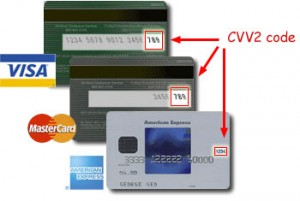
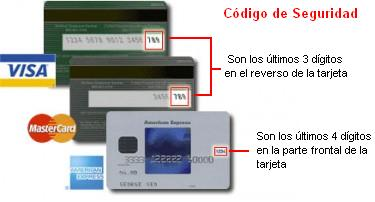
Revision detalles flatantes v1

diff --git a/application/views/direccion_envio/listar.html b/application/views/direccion_envio/listar.html
@@ -18,14 +18,10 @@
 	<form id="form_direccion_envio" action="<?php echo site_url('direccion_envio/seleccionar'); ?>" method="POST">
 		<table cellspacing="0" cellpadding="0" width="100%">
 			<thead>
-				<tr>
-					<th colspan="2">
-						Calle y n&uacute;mero
-					</th>									
-					<th>Colonia</th>
-					<th>CP</th>
-					<th>Ciudad y Esado</th>
-					<th>&nbsp;</th>
+				<tr>					
+					<th colspan="3">
+						Tus direcciones
+					</th>														
 					<th width='135px'>&nbsp;</th>
 				</tr>
 			</thead>
@@ -51,22 +47,16 @@
 				<td>				
 					<input type="radio" id="radio<?php echo $direccion['id_consecutivoSi']; ?>" name="direccion_selecionada" <?php echo $check." ".$value_r;?>/>
 					<div id="div<?php echo $direccion['id_consecutivoSi']; ?>" <?php echo $classsi;?> onclick="cambia_boton(<?php echo $direccion['id_consecutivoSi']; ?>)">&nbsp;					
-					</div>															
+					</div>																			
 				</td>
-				<td class="item-lista borde-derecho">
-					<?php echo $direccion['calle'].', '.$direccion['num_ext']; ?>
+				<td class="item-lista borde-derecho">	
+					<?php echo $direccion['calle'].', '.$direccion['num_ext']; ?><br />								
+					<?php echo $direccion['colonia']; ?><br />				
+					<?php echo $direccion['cp']; ?><br />				
+					<?php echo $direccion['ciudad'].', '.$direccion['estado'] ; ?><br />
 					<?php echo $class;?>
 				</td>
-				<td class="item-lista borde-derecho">
-					<?php echo $direccion['colonia']; ?>
-				</td>
-				<td class="item-lista borde-derecho">
-					<?php echo $direccion['cp']; ?>
-				</td>
-				<td class="item-lista borde-derecho">
-					<?php echo $direccion['ciudad'].', '.$direccion['estado'] ; ?>
-				</td>
-				<td class="item-lista borde-derecho">
+				<td class="item-lista borde-derecho" align="center">
 					<a href="<?php echo site_url("direccion_envio/editar/".$direccion['id_consecutivoSi']); ?>" title="editar">editar</a>&nbsp;
 					<a href="<?php echo site_url("direccion_envio/eliminar/".$direccion['id_consecutivoSi']); ?>" title="eliminar">eliminar</a>
 				</td>
@@ -89,19 +79,19 @@
 			?>
 	
 		<?php if (!$hay_direcciones): ?>
-			<tr><td colspan="7"><h4>No tiene direcciones registradas</h4></td></tr>						
+			<tr><td colspan="4"><h4>No tiene direcciones registradas</h4></td></tr>						
 		<?php endif ?>		
 		</tbody>	
 			<tfoot class="contenedor-gris">
 				<tr>
-					<td colspan="7" >
+					<td colspan="4" >
 						<div class='validation_message'>
 							<?php if(isset($mensaje)) { echo $mensaje; } ?>
 						</div>
 					</td>
 				</tr>
 				<tr>
-					<td colspan="7" class="borde-top">
+					<td colspan="4" class="borde-top">
 						<div id="div_enlace">
 							<a class="agregar_direccion" href="<?php echo site_url('direccion_envio/registrar/'); ?>">
 								<div class="agregar">&nbsp;</div>

diff --git a/application/views/orden_compra/detalle_tarjeta.html b/application/views/orden_compra/detalle_tarjeta.html
@@ -3,20 +3,17 @@
 		echo $tc->descripcionVc. " con terminación " .substr($tc->terminacion_tarjetaVc, strlen($tc->terminacion_tarjetaVc) - 4);			
 	?>
 	<span><a href="<?php echo site_url('forma_pago');?>">Cambiar</a></span>	
-	<div id="tarjeta" >C&oacute;digo de seguridad:	
+	<div id="tarjeta" class="float_izq">C&oacute;digo de seguridad:
 		<input type="text" name="txt_codigo" id="txt_codigo" maxlength="5" size="5"
 				value="<?php if(isset($_POST['txt_codigo'])) echo htmlspecialchars($_POST['txt_codigo']);?>"/>
-		<span class="validation_message"><?php if(isset($reg_errores['txt_codigo'])) echo ($reg_errores['txt_codigo']);?></span>
-		<a href="#" class="tip_trigger">?
+	</div>	
+	<div class="float_izq">							
+		<a href="#" class="tip_trigger">
+			<div class="interrogacion" style="margin-top: 6px"></div>			
 			<span class="tip">
-				El código de seguridad es requerido para realizar un cargo, se encuentra <br />
-				en su tarjeta de crédito pero no se almacena en nuestro sistema, 
-				por lo que <br />la única manera de saberlo es teniendo la posesión física de la tarjeta.<br />
-				En una tarjeta Visa o Master Card, el código de seguridad se encuentra<br /> en la franja donde firmó su tarjeta y consta de 3 dígitos.<br />
-				En una tarjeta American Express, el código de seguridad se encuentra <br />arriba del final del número de tarjeta y consta de 4 dígitos.<br />
-				La siguiente imágen muestra los códigos de seguridad:<br />
 				<div style="margin-left: auto; margin-right: auto; text-align: center"><img src="<?php echo base_url();?>images/cvv2_code.jpg" /></div>
-			</span>
+			</span>			
 		</a>
-	</div>			
+		<span class="validation_message"><?php if(isset($reg_errores['txt_codigo'])) echo ($reg_errores['txt_codigo']);?></span>
+	</div>
 </div>

diff --git a/application/views/direccion_facturacion/editar.html b/application/views/direccion_facturacion/editar.html
@@ -122,6 +122,15 @@
 					<div id="divchk_default" class="checkbox_no_selected" onclick="cambia_check('chk_default')">&nbsp;					
 					</div>	
 					Usar como direcci&oacute;n de facturaci&oacute;n para pago express
+					<a href="#" class="tip_trigger">?
+						<span class="tip">
+							Pago express te permite hacer tus compras de forma más rápida.<br />
+							Si seleccionas “usar tus datos para pago express”, éstos serán almacenados <br />
+							en tu cuenta como datos predeterminados de pago, envío o facturación.<br />
+							La próxima vez que hagas una compra, automáticamente asignaremos a tu orden esos datos,<br />
+							y podrás finalizar tu pago en un solo paso, (omitiendo los otros dos pasos del proceso de pago)
+						</span>
+					</a>
 					<?php 
 						if(isset($_POST['chk_default'])) { 							
 							echo "<script>cambia_check('chk_default')</script>"; 
@@ -145,9 +154,9 @@
 				<td>
 					<input type="submit" id="guardar_direccion" value=" " class="usar_nueva_direccion"/>									
 					ó
-					<input type="submit" id="guardar_otra_rs" value=" " class="usar_otra_large"/> 										
+					<input type="button" onclick="<?php echo site_url('direccion_facturacion/registrar_direccion'); ?>" id="guardar_otra_rs" value=" " class="usar_otra_large"/> 										
 					<div class="instrucciones_cursivas_der">
-						<a href="<?php echo site_url('direccion_facturacion/registrar_direccion'); ?>" title="actualizar"><input type="submit" value=" " class="cancelar" /></a>
+						<a href="<?php echo site_url('direccion_facturacion/registrar_direccion'); ?>"><div class="cancelar"></div></a>						
 					</div>	
 				</td>
 			</tr>

diff --git a/application/views/direccion_facturacion/editar_rs.html b/application/views/direccion_facturacion/editar_rs.html
@@ -59,6 +59,15 @@
 					<div id="divchk_default" class="checkbox_no_selected" onclick="cambia_check('chk_default')">&nbsp;					
 					</div>	
 					Usar como raz&oacute;n social para pago express
+					<a href="#" class="tip_trigger">?
+						<span class="tip">
+							Pago express te permite hacer tus compras de forma más rápida.<br />
+							Si seleccionas “usar tus datos para pago express”, éstos serán almacenados <br />
+							en tu cuenta como datos predeterminados de pago, envío o facturación.<br />
+							La próxima vez que hagas una compra, automáticamente asignaremos a tu orden esos datos,<br />
+							y podrás finalizar tu pago en un solo paso, (omitiendo los otros dos pasos del proceso de pago)
+						</span>
+					</a>
 					<?php 
 						if(isset($_POST['chk_default'])) { 							
 							echo "<script>cambia_check('chk_default')</script>"; 
@@ -74,9 +83,9 @@
 				<td>&nbsp;</td>
 				<td>
 					<input type="submit" id="guardar_rs" value="" class="usar_razon_social_large2"/> &oacute;
-					<input type="submit" id="guardar_otra_rs" value="" class="usar_otra_large"/>
+					<input type="button" onclick="window.location.href='<?php echo site_url('direccion_facturacion'); ?>'" id="guardar_otra_rs" value="" class="usar_otra_large"/>
 					<div class="instrucciones_cursivas_der">
-						<a href="<?php echo site_url('direccion_facturacion'); ?>" title="actualizar"><input type="submit" value=" " class="cancelar" /></a>
+						<a href="<?php echo site_url('direccion_facturacion'); ?>"><div class="cancelar"></div></a>						
 					</div>					
 				</td>
 			</tr>

diff --git a/application/views/forma_pago/editar.html b/application/views/forma_pago/editar.html
@@ -113,6 +113,15 @@
 					<div id="divchk_default" class="checkbox_no_selected" onclick="cambia_check('chk_default')">&nbsp;					
 					</div>	
 					Usar para pago express
+					<a href="#" class="tip_trigger">?
+						<span class="tip">
+							Pago express te permite hacer tus compras de forma más rápida.<br />
+							Si seleccionas “usar tus datos para pago express”, éstos serán almacenados en tu cuenta<br />
+							como datos predeterminados de pago, envío o facturación.<br />
+							La próxima vez que hagas una compra, automáticamente asignaremos a tu orden<br /> 
+							esos datos,y podrás finalizar tu pago en un solo paso, (omitiendo los otros <br />dos pasos del proceso de pago)
+						</span>
+					</a>
 					<?php 
 						if(isset($_POST['chk_default'])) { 							
 							echo "<script>cambia_check('chk_default')</script>"; 
@@ -137,7 +146,7 @@
 					<input type="submit" id="guardar_tarjeta" name="guardar_tarjeta" value=" " class="usar_tarjeta"/> &oacute;
 					<input type="submit" id="guardar_y_usar_otra" name="guardar_y_usar_otra" value=" " class="usar_otra_large"/> 
 					<div class="instrucciones_cursivas_der">
-						<a href="<?php echo site_url('forma_pago/listar/');?>"><input type="submit" value=" " class="cancelar" /></a>
+						<a href="<?php echo site_url('forma_pago/listar/'); ?>"><div class="cancelar"></div></a>						
 					</div>	
 				</td>
 			</tr>

diff --git a/application/views/direccion_envio/editar.html b/application/views/direccion_envio/editar.html
@@ -254,6 +254,15 @@
 					<div id="divchk_default" class="checkbox_no_selected" onclick="cambia_check('chk_default')">&nbsp;					
 					</div>
 					Usar para pago express
+					<a href="#" class="tip_trigger">?
+						<span class="tip">
+							Pago express te permite hacer tus compras de forma más rápida.<br />
+							Si seleccionas “usar tus datos para pago express”, éstos serán almacenados <br />
+							en tu cuenta como datos predeterminados de pago, envío o facturación.<br />
+							La próxima vez que hagas una compra, automáticamente asignaremos a tu orden esos datos,<br />
+							y podrás finalizar tu pago en un solo paso, (omitiendo los otros dos pasos del proceso de pago)
+						</span>
+					</a>
 					<?php 
 						if(isset($_POST['chk_default'])){
 							echo "<script>cambia_check('chk_default')</script>";
@@ -277,7 +286,7 @@
 					<input type="submit" id="guardar_direccion" name="guardar_direccion" value="&nbsp;" class="usar_nueva_direccion"/> ó
 					<input type="submit" id="guardar_y_usar_otra" name="guardar_y_usar_otra" value=" " class="usar_otra_large"/>
 					<div class="instrucciones_cursivas_der">
-						<a href="<?php echo site_url('direccion_envio'); ?>"><div class="cancelar"> </div></a>
+						<a href="<?php echo site_url('direccion_envio'); ?>"><div class="cancelar"></div></a>
 					</div>
 				</td>
 			</tr>

diff --git a/application/views/direccion_envio/agregar.html b/application/views/direccion_envio/agregar.html
@@ -252,10 +252,23 @@
 			<tr>
 				<td>&nbsp;</td>
 				<td class="label_izq">
-					<input type="checkbox" id="chk_default" name="chk_default"/>					
-					<div id="divchk_default" class="checkbox_no_selected" onclick="cambia_check('chk_default')">&nbsp;					
-					</div>		
-					Usar como direcci&oacute;n para pago express
+					<div class="float_izq">
+						<input type="checkbox" id="chk_default" name="chk_default"/>					
+						<div id="divchk_default" class="checkbox_no_selected" onclick="cambia_check('chk_default')">&nbsp;					
+						</div>												
+						Usar como direcci&oacute;n para pago express
+					</div>
+					<div class="float_izq">
+						<a href="#" class="tip_trigger"><div class="interrogacion"></div>	
+							<span class="tip">
+								Pago express te permite hacer tus compras de forma más rápida.<br />
+								Si seleccionas “usar tus datos para pago express”, éstos serán almacenados <br />
+								en tu cuenta como datos predeterminados de pago, envío o facturación.<br />
+								La próxima vez que hagas una compra, automáticamente asignaremos a tu orden esos datos,<br />
+								y podrás finalizar tu pago en un solo paso, (omitiendo los otros dos pasos del proceso de pago)
+							</span>
+						</a>
+					</div>					
 				</td>				
 			</tr>
 			<tr>

diff --git a/application/views/forma_pago/agregar.html b/application/views/forma_pago/agregar.html
@@ -62,6 +62,14 @@
 				</td>
 			</tr>
 			<tr>
+				<td>
+					&nbsp;
+				</td>
+				<td>
+					<span class="instrucciones_cursivas">Datos del titular (Escríbelos tal como aparecen en tu tarjeta)</span>	
+				</td>
+			</tr>
+			<tr>
 				<td class="label">
 					Nombre del Titular
 				</td>
@@ -150,6 +158,15 @@
 					<div id="divchk_default" class="checkbox_no_selected" onclick="cambia_check('chk_default')">&nbsp;					
 					</div>		
 					Usar para pago express
+					<a href="#" class="tip_trigger">?
+						<span class="tip">
+							Pago express te permite hacer tus compras de forma más rápida.<br />
+							Si seleccionas “usar tus datos para pago express”, éstos serán almacenados <br />
+							en tu cuenta como datos predeterminados de pago, envío o facturación.<br />
+							La próxima vez que hagas una compra, automáticamente asignaremos a tu orden esos datos,<br />
+							y podrás finalizar tu pago en un solo paso, (omitiendo los otros dos pasos del proceso de pago)
+						</span>
+					</a>
 				</td>
 			</tr>
 			<tr>

diff --git a/js/login.js b/js/login.js
@@ -45,7 +45,7 @@ $(document).ready(function() {
 				return false;
 			} 
 			else if (passwd.val() == "" ) {
-				passwd.focus().after("<div class='error2'>Por favor escribe tu contraseña. Si no has creado una cuenta, selecciona iniciar sesión como cliente nuevo.</div>");
+				passwd.focus().after("<div class='error2'>Por favor escribe tu contraseña o elige iniciar sesión como cliente nuevo</div>");
 				return false;
 			}
 			else{
@@ -53,7 +53,7 @@ $(document).ready(function() {
 			}									
 		} 		
 		else {
-			$("form").attr("action", "index.php/registro/")
+			$("form").attr("action", "/ecommerce/index.php/registro/")
 			$("form").submit();
 		}
 	});
@@ -64,7 +64,7 @@ $(document).ready(function() {
 		e.preventDefault();
 		//alert("tipo " + tipo_inicio.val());
 		$(".error").remove();	//limpiar mensajes de error	
-		$("form").attr("action", "index.php/password/")
+		$("form").attr("action", "/ecommerce/index.php/password/")
 		$("form").submit();
 	});
 	

diff --git a/application/views/direccion_facturacion/agregar_rs.html b/application/views/direccion_facturacion/agregar_rs.html
@@ -59,7 +59,16 @@
 					<input type="checkbox" id="chk_default" name="chk_default"/>					
 					<div id="divchk_default" class="checkbox_no_selected" onclick="cambia_check('chk_default')">&nbsp;					
 					</div>						
-					Usar como raz&oacute;n social para pago express					
+					Usar como raz&oacute;n social para pago express	
+					<a href="#" class="tip_trigger">?
+						<span class="tip">
+							Pago express te permite hacer tus compras de forma más rápida.<br />
+							Si seleccionas “usar tus datos para pago express”, éstos serán almacenados <br />
+							en tu cuenta como datos predeterminados de pago, envío o facturación.<br />
+							La próxima vez que hagas una compra, automáticamente asignaremos a tu orden esos datos,<br />
+							y podrás finalizar tu pago en un solo paso, (omitiendo los otros dos pasos del proceso de pago)
+						</span>
+					</a>				
 				</td>
 			</tr>
 			<tr>

diff --git a/application/views/direccion_facturacion/agregar.html b/application/views/direccion_facturacion/agregar.html
@@ -134,6 +134,15 @@
 					<div id="divchk_default" class="checkbox_no_selected" onclick="cambia_check('chk_default')">&nbsp;					
 					</div>		
 					Usar como direcci&oacute;n de facturaci&oacute;n para pago express
+					<a href="#" class="tip_trigger">?
+						<span class="tip">
+							Pago express te permite hacer tus compras de forma más rápida.<br />
+							Si seleccionas “usar tus datos para pago express”, éstos serán almacenados <br />
+							en tu cuenta como datos predeterminados de pago, envío o facturación.<br />
+							La próxima vez que hagas una compra, automáticamente asignaremos a tu orden esos datos,<br />
+							y podrás finalizar tu pago en un solo paso, (omitiendo los otros dos pasos del proceso de pago)
+						</span>
+					</a>
 				</td>
 			</tr>
 			<tr>

diff --git a/css/style.css b/css/style.css
@@ -865,5 +865,28 @@ h4{
 	padding:10px;
 	position:absolute; z-index:1000; 
 	border: solid 1px #4E4E4E;
-	font-size: 10px;
+	font-size: 10px;	
+}
+.tip_trigger{
+	text-decoration: none;
+}
+.interrogacion{
+	border: none;
+	height: 14px;
+	width: 16px;	
+	background: transparent url('../images/css-sprite_icons.png') no-repeat;	
+	background-position: -153px -11px;	
+	margin: 0px 0px 0px 5px;				
+}
+
+.interrogacion:hover{
+	border: none;
+	height: 14px;
+	width: 16px;	
+	background: transparent url('../images/css-sprite_icons.png') no-repeat;	
+	background-position: -153px -27px;		
+}
+.float_izq{
+	float: left;
+	margin-top: 6px;	
 }
